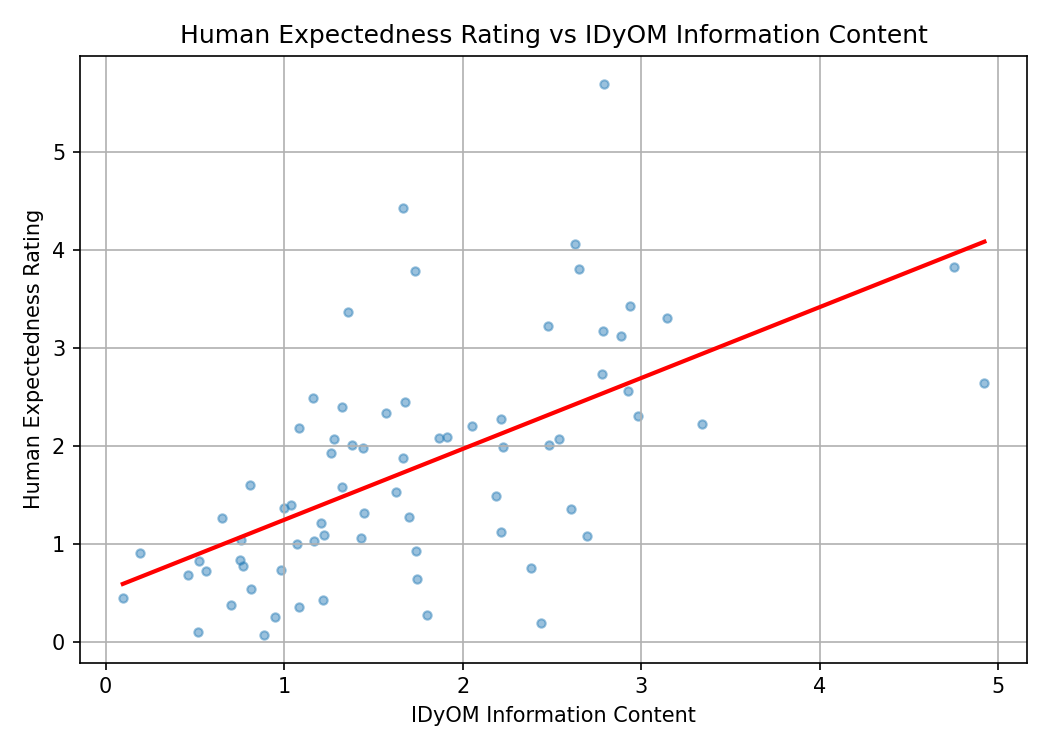
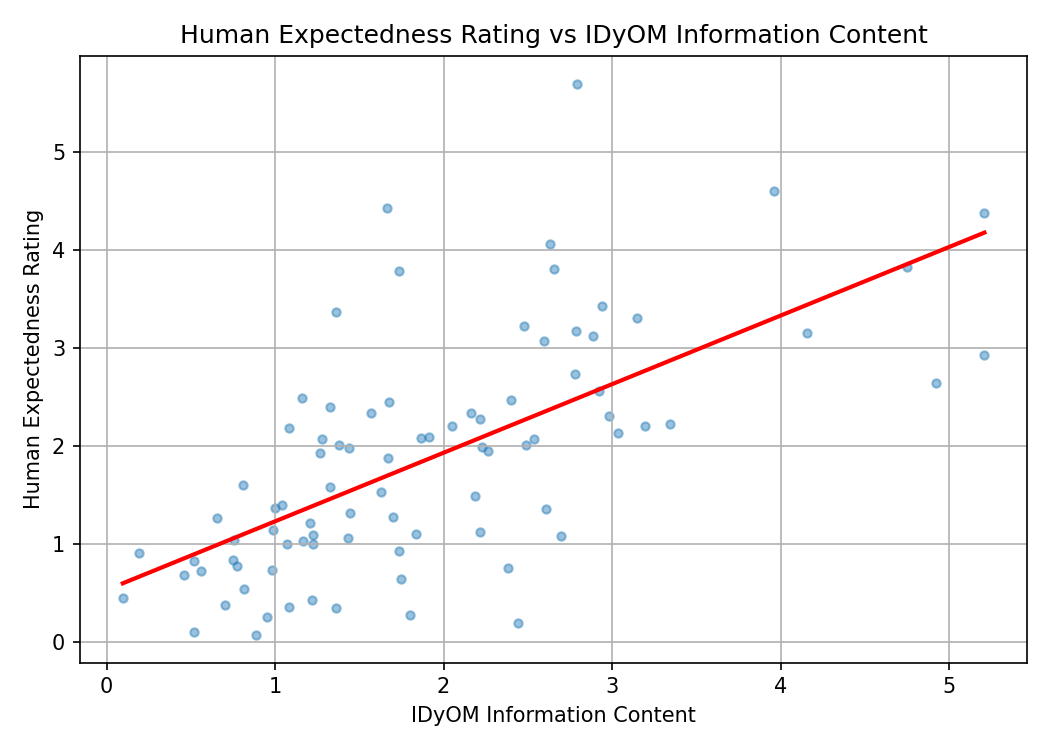
manz analyses

diff --git a/Code/MusicAnalysis/MusicModels/MT/MusicTransformer-Pytorch-private/statistical_analysis_scripts/manz_all_regression_analyses.py b/Code/MusicAnalysis/MusicModels/MT/MusicTransformer-Pytorch-private/statistical_analysis_scripts/manz_all_regression_analyses.py
@@ -9,6 +9,8 @@ import matplotlib.pyplot as plt
 CSV_PATH = 'probe_prediction_results/manz_merged_idyom_transformer_human.csv'
 OUT_DIR = Path('statistical_analysis_results')
 OUT_DIR.mkdir(parents=True, exist_ok=True)
+# Allow for skipping of first few notes of each chorale in the analysis
+notes_skipped = 0
 
 
 def ols_and_corr(x, y, x_name, y_name, tag):
@@ -87,12 +89,12 @@ def multiple_regression(avg, idyom_ic, transf_ic, tag):
     print(f"[saved] {txt_path}")
 
 
-def main():
+def main(notes_skipped=0):
     df = pd.read_csv(CSV_PATH)
     
     # Skip the first 5 notes of each chorale to account for initialization bias in the models
-    df = df[df['note_index'] >= 7].copy()
-    print(f"Loaded {len(df)} rows from {CSV_PATH} after dropping the first 7 notes.")
+    df = df[df['note_index'] >= notes_skipped].copy()
+    print(f"Loaded {len(df)} rows from {CSV_PATH} after dropping the first {notes_skipped} notes.")
 
     # --- Pairwise analyses ---
     ols_and_corr(
